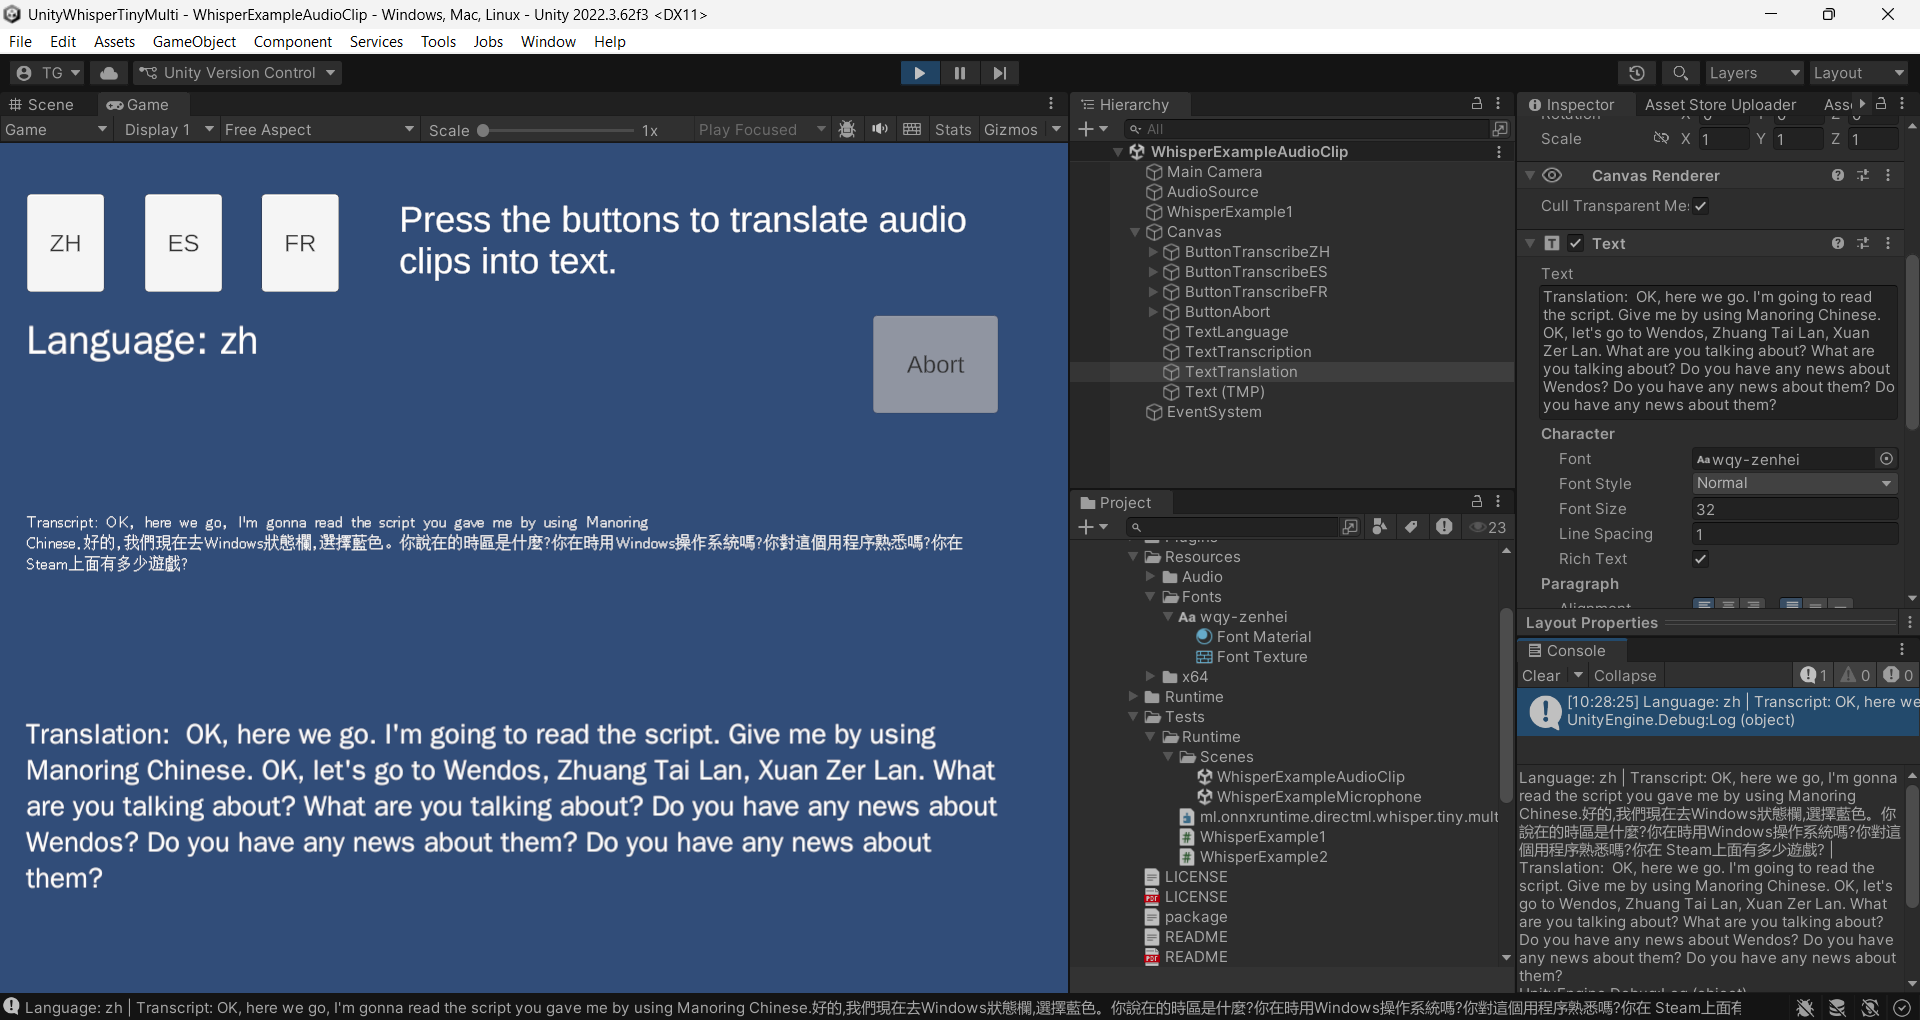
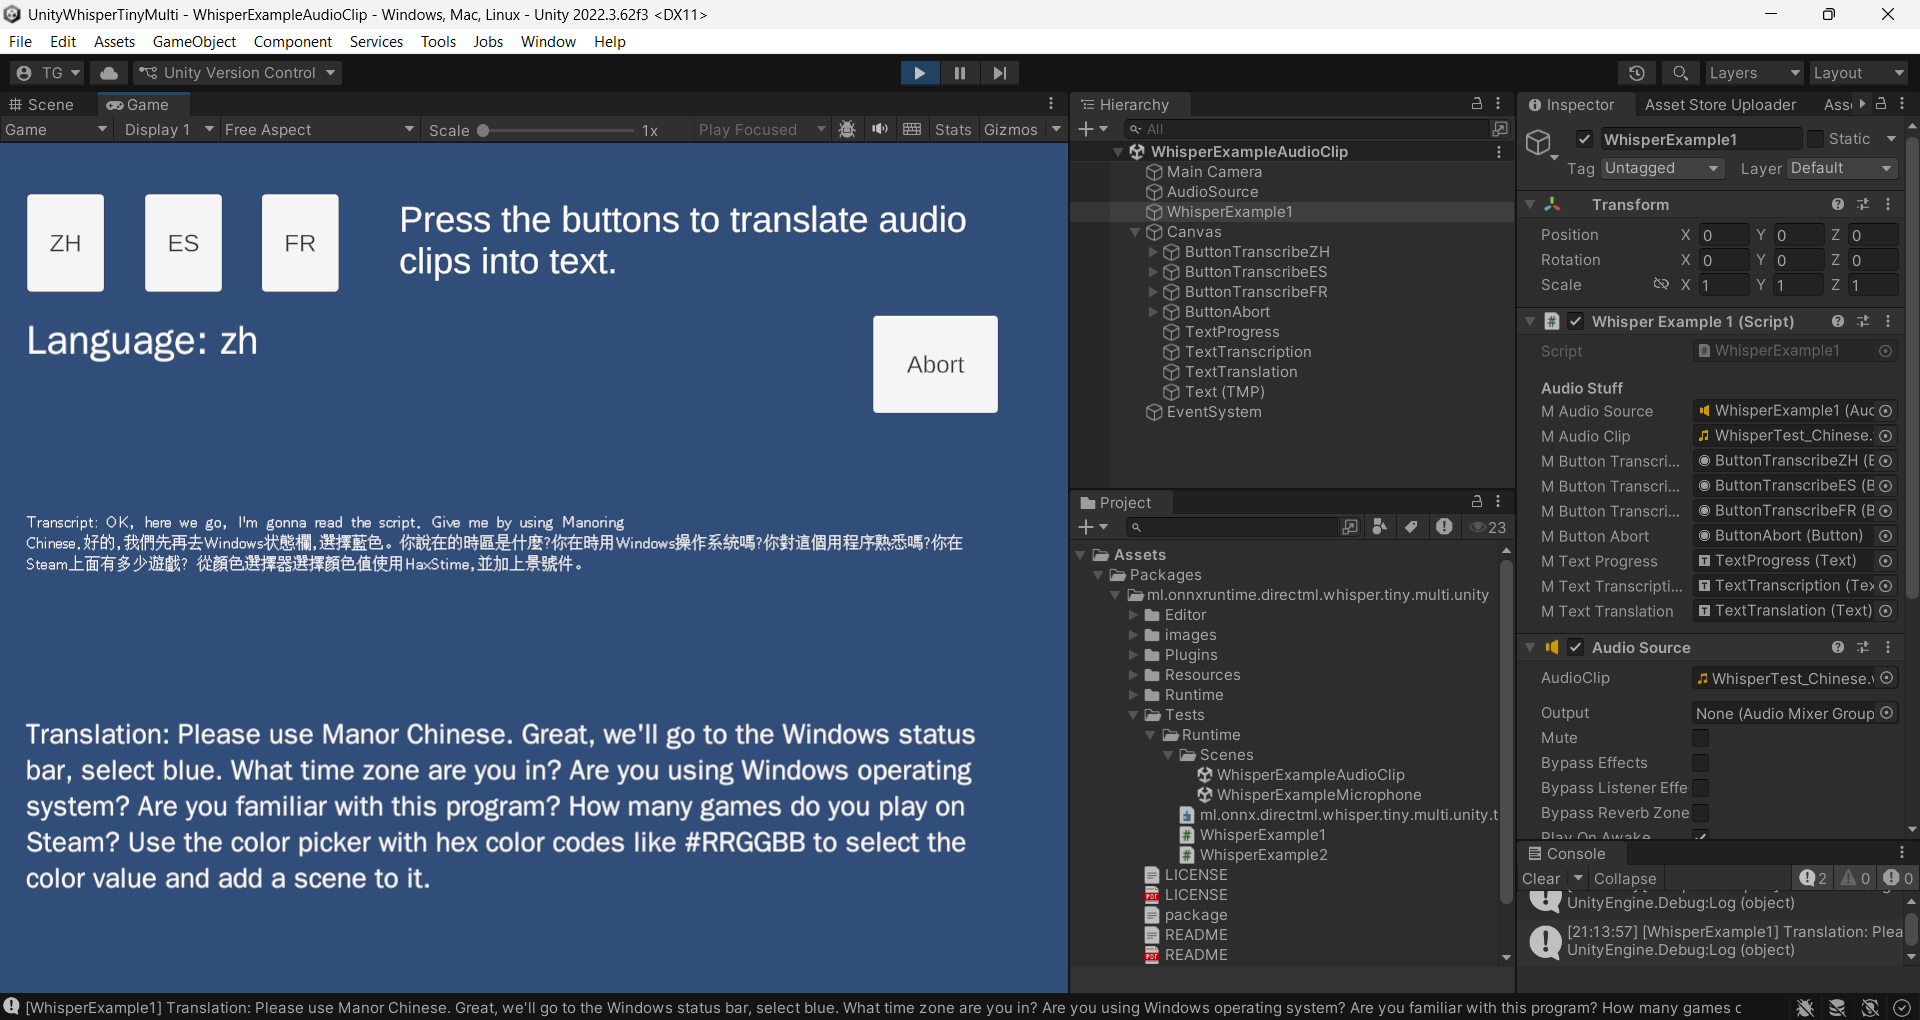
Added Qwen 2.5

diff --git a/README.md b/README.md
@@ -2,13 +2,19 @@
 
 https://assetstore.unity.com/packages/slug/352058
 
-OpenAI Whisper is an automatic speech recognition (ASR) model trained on diverse multilingual audio; it transcribes speech to text, can auto-detect language, and can translate many languages to English. This package bundles the tiny multilingual variant for lightweight, offline transcription/translation on Windows.
+OpenAI Whisper is an automatic speech recognition (ASR) model trained on diverse multilingual audio; it transcribes speech to text and can auto-detect language.
+
+This package uses:
+- Whisper (ONNX Runtime + DirectML) for **speech → text**
+- Qwen 2.5 (internal text model) for **text → text translation**
 
 ONNX Runtime is a high-performance inference engine for ONNX models; this package uses it to run the Whisper model efficiently on Windows.
 
 DirectML is a Windows machine-learning acceleration API that runs on DirectX 12-capable GPUs and can fall back to CPU when needed.
 
-This is a Windows x64 package that embeds the OpenAI Whisper tiny multilingual model inside a single native DLL, accelerated by ONNX Runtime with DirectML. Supports the Unity Editor and Windows Standalone 64-bit builds. Setup is turnkey and fully offline: no downloads, just unpack the DLL, open the example scenes directly from the package, and choose your audio source (clip or microphone) for transcription or dictation.
+This is a Windows x64 package that embeds the OpenAI Whisper tiny multilingual model inside a single native DLL, accelerated by ONNX Runtime with DirectML. Translation is done by Qwen from the transcript text (Whisper is not used for translation).
+
+Supports the Unity Editor and Windows Standalone 64-bit builds. Setup is turnkey and fully offline: unpack the DLL, open the example scenes directly from the package, and choose your audio source (clip or microphone) for transcription or dictation.
 
 ## Platforms
 - **Supported:** Windows 64-bit — Unity Editor and Windows Standalone player builds.
@@ -16,6 +22,7 @@ This is a Windows x64 package that embeds the OpenAI Whisper tiny multilingual m
 
 ## What’s inside
 - Native plugin built on **ONNX Runtime + DirectML**; the full Whisper tiny multilingual model is contained in one DLL (no external model downloads, works fully offline).
+- Text translation via **Qwen 2.5** (text-in/text-out) driven through the DLL export `TranslateText(...)`.
 - Editor utilities to unpack binaries and example content.
 - Example scenes showing:
 	- Audio clip transcription (from StreamingAssets).
@@ -29,8 +36,8 @@ This is a Windows x64 package that embeds the OpenAI Whisper tiny multilingual m
 - **C# samples**: microphone and clip transcription workflows.
 
 ## Quick setup
-1) **Unpack the DLL:** `Assets → WhisperTinyMulti → Unpack WhisperTinyMulti DLLs` (extracts into a single native DLL in `Plugins/Windows/x64`).
-2) **Unpack test audio:** `Assets → WhisperTinyMulti → Unpack WhisperTinyMulti Example Audio` drops the samples `WhisperTest_Chinese.wav`, `WhisperTest_French.wav`, `WhisperTest_Spanish.wav` into `Assets/StreamingAssets/Audio` for the clip-based example.
+1) **Unpack the DLL:** `Assets → WhisperTinyModelMulti → Unpack WhisperTinyModelMulti DLLs` (extracts into a single native DLL in `Plugins/Windows/x64`).
+2) **Unpack test audio:** `Assets → WhisperTinyModelMulti → Unpack WhisperTinyModelMulti Example Audio` drops the samples `WhisperTest_Chinese.wav`, `WhisperTest_French.wav`, `WhisperTest_Spanish.wav` into `Assets/StreamingAssets/Audio` for the clip-based example.
 3) **Open an example scene (no import needed):** open directly from the package (or copy to your project if you prefer) and press Play in the Editor. Everything runs offline; no extra downloads are required.
 
 ## Audio sources
@@ -41,7 +48,7 @@ This is a Windows x64 package that embeds the OpenAI Whisper tiny multilingual m
 
 ## Example features
 - Language detection + transcription from PCM (16 kHz mono floats).
-- Translation to English (from detected or user-selected language).
+- Translation via Qwen: `transcript` → `TranslateText(transcript, from, to)`.
 - Rolling transcript buffer with max length guard.
 - UI hooks via TextMeshPro; dropdowns to pick audio source/device (input only; loopback not implemented in this sample).
 
@@ -50,7 +57,7 @@ This is a Windows x64 package that embeds the OpenAI Whisper tiny multilingual m
 - Keep Plugins and StreamingAssets in place; the model DLL must remain alongside the plugin binaries.
 - Works offline; no model downloads or updates required.
 - Works in Editor and Windows Standalone 64-bit builds (x64 only).
-- On unsupported platforms, `DetectLanguage`, `Transcribe`, and `Translate` return an empty string.
+- On unsupported platforms, `DetectLanguage`, `Transcribe`, and `TranslateText` return an empty string.
 
 ## Tech stack
 - **Model:** OpenAI Whisper (tiny multilingual) converted to ONNX.
@@ -64,51 +71,71 @@ This is a Windows x64 package that embeds the OpenAI Whisper tiny multilingual m
 	- **DirectML** (MIT, <https://github.com/microsoft/DirectML/blob/master/LICENSE>)
 	- **ONNX Runtime** (MIT, <https://github.com/microsoft/onnxruntime/blob/main/LICENSE>)
 	- **OpenAI Whisper** (MIT, <https://github.com/openai/whisper/blob/main/LICENSE>)
+	- **Qwen 2.5** (Apache 2.0, <https://huggingface.co/Qwen/Qwen2.5-0.5B/blob/main/LICENSE>)
 	- **WenQuanYi Font** - GNU General Public License (<https://en.wikipedia.org/wiki/WenQuanYi>)
 
 ## Troubleshooting
 - Missing TMPro types: ensure your asmdef references `Unity.TextMeshPro` (and `UnityEngine.UI` for UGUI).
 - DLL load issues: confirm x64 Editor, DirectML-capable GPU/driver, and that DLLs were unpacked to `Plugins/Windows/x64`.
 - No audio input devices: check OS privacy settings and that a microphone exists.
+- Translation fails with `CO_E_NOTINITIALIZED` / `0x800401F0`: set `WHISPER_TRANSLATION_MODEL_DIR` to the translation model folder (the examples also attempt best-effort auto-discovery in the repo layout).
 
 ## Minimal API
 ```csharp
-var whisperTinyMulti = new DllWhisperTinyMulti();    // create the client (loads the native DLL/model)
+using var whisperTinyMulti = new DllWhisperTinyMulti();    // create the client (loads the native DLL/model)
+
+var dllVersion = whisperTinyMulti.GetVersion();             // e.g. "1.0.1"
 
 // pcm: float[] mono, 16 kHz samples
 var language = whisperTinyMulti.DetectLanguage(pcm);                                         // detect language (e.g. "en", "fr")
 var transcript = whisperTinyMulti.Transcribe(pcm, language);      // transcribe in source language
-var translation = whisperTinyMulti.Translate(pcm, language);      // translate to English
+var translation = whisperTinyMulti.TranslateText(transcript, language, "en");      // translate transcript text to English
 
 // Auto language detection:
 // - pass an empty string (or null) to let the DLL detect the language internally.
 // - if your UI uses the literal string "auto", convert it to "" before calling the API.
 var transcriptAuto = whisperTinyMulti.Transcribe(pcm, language: "");
-var translationAuto = whisperTinyMulti.Translate(pcm, language: "");
+var translationAuto = whisperTinyMulti.TranslateText(transcriptAuto, sourceLanguage: "", targetLanguage: "en");
+
+// If you need to cancel a long-running call (from another thread/UI event):
+DllWhisperTinyMulti.Abort();
 ```
 
 That’s it: create the client, pass PCM (mono, 16 kHz floats), detect language, and decode.
+
+For translation, call `TranslateText(...)` on the transcript; translation is performed by Qwen (not Whisper).
 
 ## API
 - `DllWhisperTinyMulti()`
 	- Input: none; creates the client and loads the native DLL/model (may throw if binaries are missing).
 	- Output: client instance; inference methods will return empty strings on unsupported platforms.
+- `GetVersion()`
+	- Output: the native DLL version string (useful to confirm the correct plugin is being loaded).
 - `SetProgress(DllWhisperTinyMulti.ProgressCallback callback)` (static)
 	- Input: callback invoked from the native decoding loop with `(stage, current, total, partialText)`.
 	- Notes:
 		- `stage`: 0=preprocess, 1=encoder, 2=decoder, 3=done.
 		- `current/total`: progress counters for the current stage (treat as best-effort).
 		- `partialText`: partial transcript while decoding.
+		- This callback is **static/global** (shared by all instances).
 		- Call `DllWhisperTinyMulti.ClearProgress()` (static) to unsubscribe.
+- `Abort()` (static)
+	- Requests cancellation of the current in-flight native inference.
+	- Notes:
+		- Native calls may fail with `E_ABORT` (HRESULT `0x80004004`) after abort is requested.
+		- `Abort()` is safe to call even if nothing is running.
 - `DetectLanguage(float[] pcmMono16k)`
 	- Input: mono 16 kHz PCM samples (`float[]`), values typically in [-1, 1].
 	- Output: language code string (for example, `"en"`); empty string on unsupported platforms or load failure.
 - `Transcribe(float[] pcmMono16k, string language)`
-- `Translate(float[] pcmMono16k, string language)`
 	- Input: mono 16 kHz PCM samples (`float[]`), values typically in [-1, 1].
 	- Input: `language` (e.g., `"en"`, `"fr"`). Pass `""` (or `null`) for auto-detect.
-	- Output: transcript text in the requested task.
-	- Output: transcript/translation string; empty string on unsupported platforms or load failure.
+	- Output: transcript string; empty string on unsupported platforms or load failure.
+
+- `TranslateText(string text, string sourceLanguage, string targetLanguage)`
+	- Input: `text` to translate.
+	- Input: `sourceLanguage` and `targetLanguage` (e.g., `"en"`, `"es"`). Pass `""` (or `null`) for best-effort auto-detect.
+	- Output: translated string; empty string on unsupported platforms or load failure.
 
 ## Progress callback
 You can receive progress updates (and partial text) during decoding:
@@ -122,25 +149,22 @@ DllWhisperTinyMulti.SetProgress((stage, current, total, partialText) =>
     UnityEngine.Debug.Log($"stage={stage} {current}/{total} partial={partialText}");
 });
 
-// ... run Transcribe/Translate calls ...
+// ... run Transcribe/TranslateText calls ...
 
 DllWhisperTinyMulti.ClearProgress();
 ```
 
 ### Converting progress to a percentage
-The callback reports **per-call, per-stage** progress. A single `Transcribe(...)` or `Translate(...)` call runs through these stages:
+The callback reports **per-call, per-stage** progress. A single `Transcribe(...)` call runs through these stages:
 `preprocess -> encoder -> decoder -> done`.
 
-There is no built-in “total % of your whole app pipeline” because you might call `DetectLanguage`, `Transcribe`, and `Translate` separately.
+There is no built-in “total % of your whole app pipeline” because you might call `DetectLanguage`, `Transcribe`, and `TranslateText` separately.
 
 #### A simple, practical mapping (single call)
-If you just want a 0–100% value for one `Transcribe` *or* one `Translate` call, a reasonable approximation is:
+If you just want a 0–100% value for one `Transcribe` call, a reasonable approximation is:
 
 ```csharp
 static float GetTranscriptionProgressPercent(int stage, int current, int total)
-	=> 100f * GetStageWeightedProgressNormalized(stage, current, total);
-
-static float GetTranslationProgressPercent(int stage, int current, int total)
 	=> 100f * GetStageWeightedProgressNormalized(stage, current, total);
 
 static float GetStageWeightedProgressNormalized(int stage, int current, int total)
@@ -161,14 +185,14 @@ static float GetStageWeightedProgressNormalized(int stage, int current, int tota
 ```
 
 #### Mapping a “transcribe + translate” run
-If you do both (two separate native calls), treat them as two halves:
+If you do both (two separate native calls), treat them as two halves. Note that `TranslateText(...)` progress semantics are best-effort and may differ from Whisper stages:
 
 ```csharp
 // Call this while transcribing
 var pct = 0.50f * GetTranscriptionProgressPercent(stage, current, total);
 
 // Call this while translating
-var pct = 50f + 0.50f * GetTranslationProgressPercent(stage, current, total);
+var pct = 50f + 0.50f * GetStageWeightedProgressNormalized(stage, current, total);
 ```
 
 Notes:

diff --git a/LICENSE.md b/LICENSE.md
@@ -8,4 +8,5 @@
 - **DirectML** — MIT (<https://github.com/microsoft/DirectML/blob/master/LICENSE>)
 - **ONNX Runtime** — MIT (<https://github.com/microsoft/onnxruntime/blob/main/LICENSE>)
 - **OpenAI Whisper** — MIT (<https://github.com/openai/whisper/blob/main/LICENSE>)
+- **Qwen/Qwen2.5-0.5B-Instruct** — Apache-2.0 (<https://huggingface.co/Qwen/Qwen2.5-0.5B-Instruct>)
 - **WenQuanYi Font** - GNU General Public License (<https://en.wikipedia.org/wiki/WenQuanYi>)
